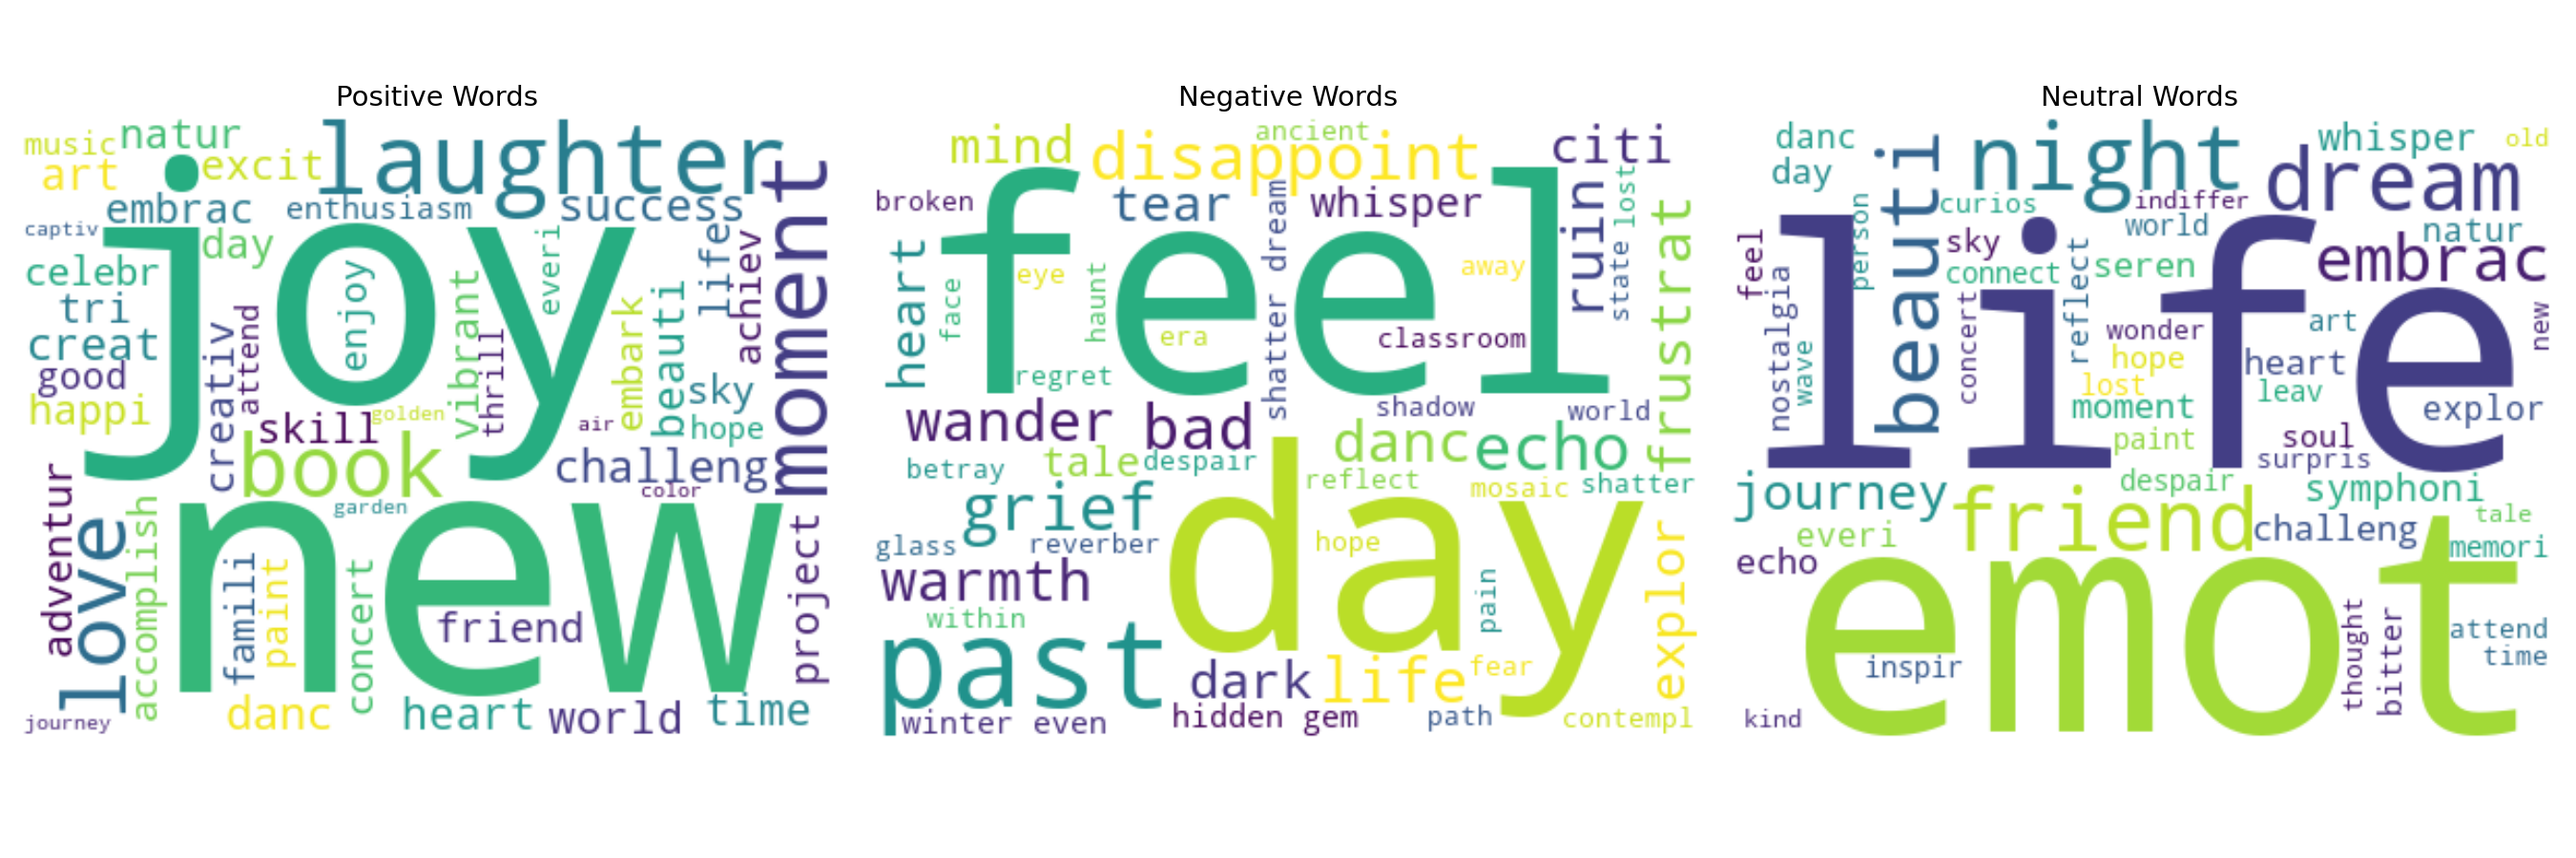
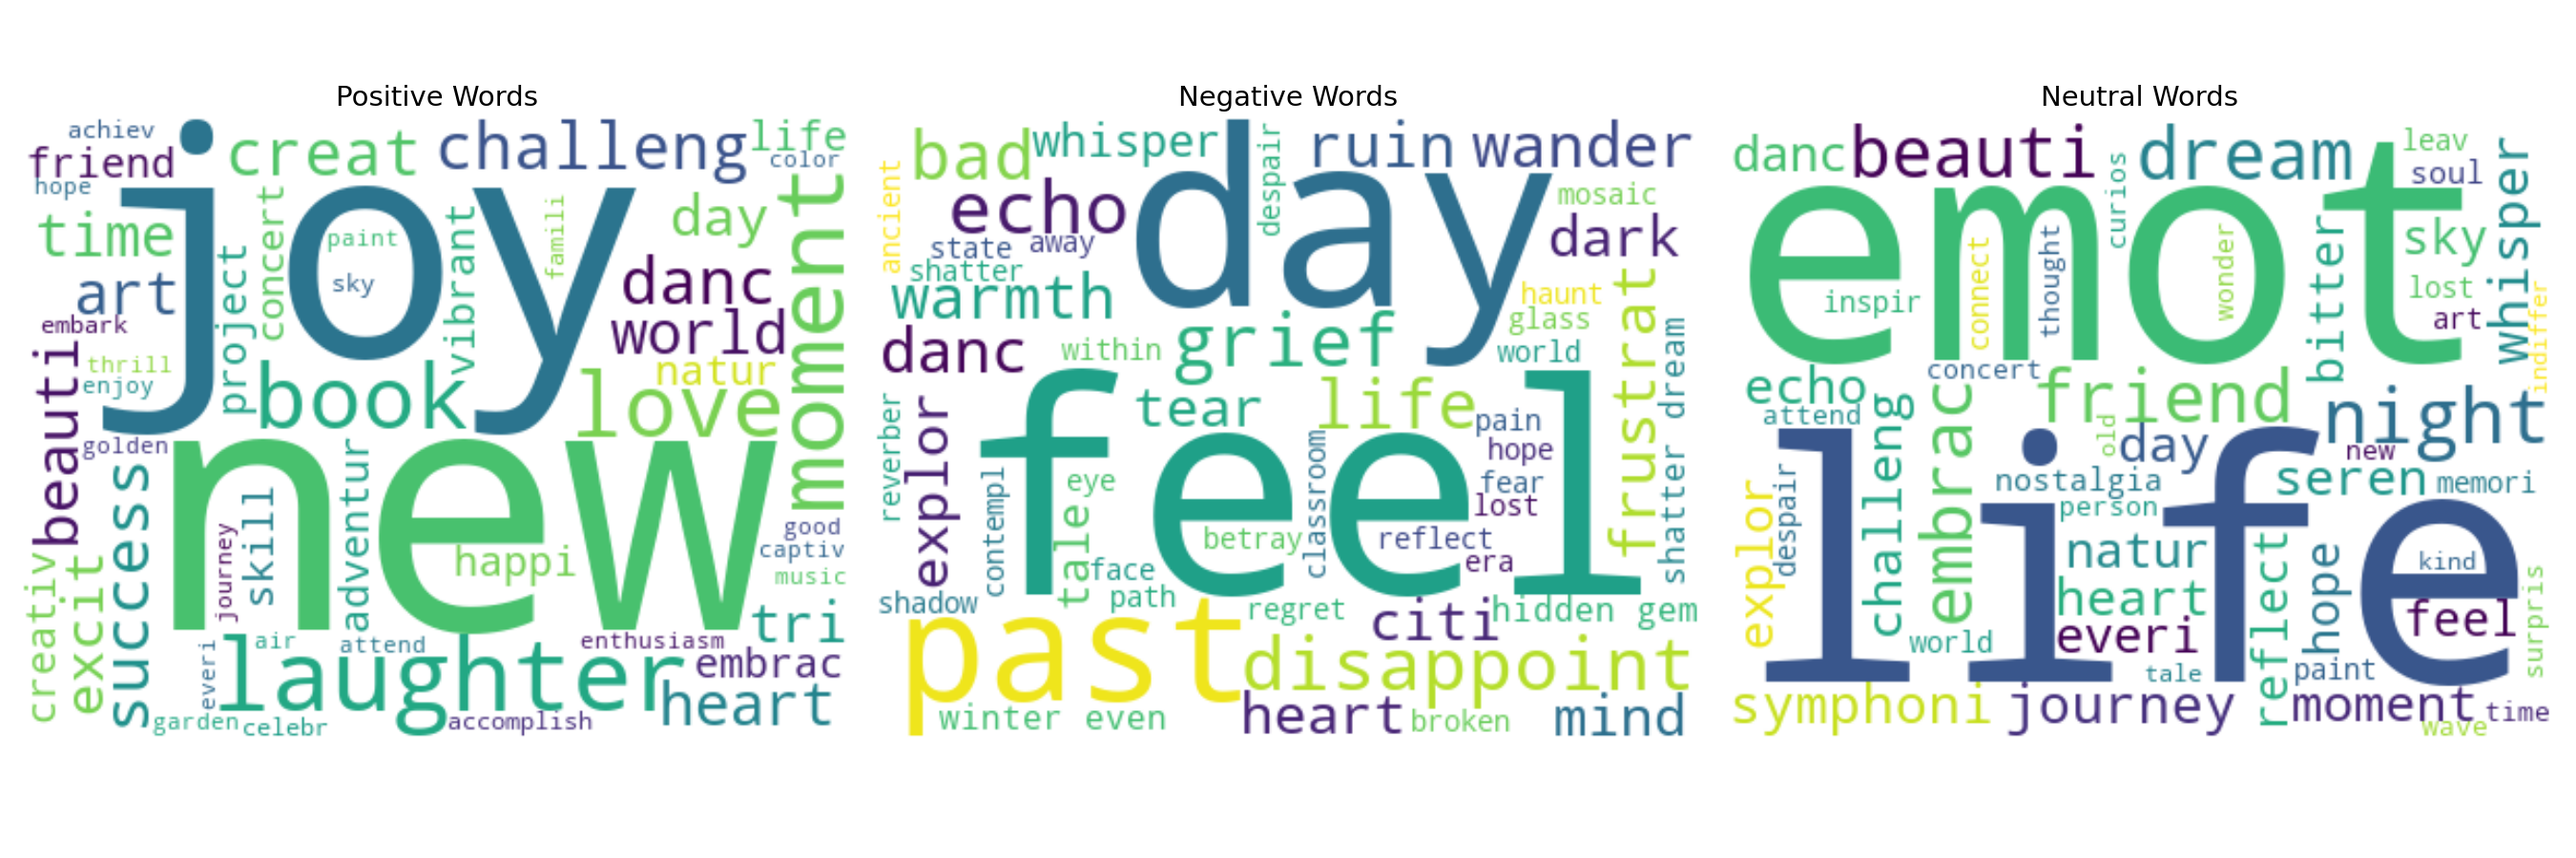
Replace .py scripts with Colab notebook code

diff --git a/Level 2/Task 1/L2_T1_Regression.py b/Level 2/Task 1/L2_T1_Regression.py
@@ -6,11 +6,14 @@ from sklearn.model_selection import train_test_split
 from sklearn.linear_model import LinearRegression
 from sklearn.metrics import r2_score, mean_squared_error, mean_absolute_error
 
+# Update DATA and OUT paths for Colab environment
+# You will need to upload '4) house Prediction Data Set.csv' to the /content/ directory in Colab.
 DATA = r'C:\Users\ASUS\Downloads\DataSet_Extracted\Data Set For Task'
 OUT = r'C:\Users\ASUS\Downloads\CodeVeda_Internship_Projects\Level 2\Task 1'
 
 # ---- Load & parse house data (space-separated, no header) ----
-raw = pd.read_csv(f'{DATA}\\4) house Prediction Data Set.csv', header=None, sep=r'\s+')
+# Changed path separator to '/' for Colab compatibility
+raw = pd.read_csv(f'{DATA}/4) house Prediction Data Set.csv', header=None, sep=r'\s+')
 print(f'Raw shape: {raw.shape}')
 print('First 5 rows:')
 print(raw.head())
@@ -58,7 +61,7 @@ axes[1, 1].set_ylabel('MEDV ($1000s)')
 axes[1, 1].set_title('LSTAT vs MEDV')
 
 plt.tight_layout()
-plt.savefig(f'{OUT}\\house_eda.png', dpi=150)
+plt.savefig(f'{OUT}/house_eda.png', dpi=150)
 plt.show()
 print('Saved: house_eda.png')
 print()
@@ -105,7 +108,7 @@ plt.ylabel('Predicted MEDV ($1000s)')
 plt.title('Actual vs Predicted House Prices')
 plt.legend()
 plt.tight_layout()
-plt.savefig(f'{OUT}\\house_regression_results.png', dpi=150)
+plt.savefig(f'{OUT}/house_regression_results.png', dpi=150)
 plt.show()
 print('Saved: house_regression_results.png')
 
@@ -124,9 +127,6 @@ plt.hist(residuals, bins=20, edgecolor='black', color='steelblue')
 plt.xlabel('Residual')
 plt.title('Residual Distribution')
 plt.tight_layout()
-plt.savefig(f'{OUT}\\house_residuals.png', dpi=150)
+plt.savefig(f'{OUT}/house_residuals.png', dpi=150)
 plt.show()
 print('Saved: house_residuals.png')
-
-
-

diff --git a/Level 1/Task 2/L1_T2_EDA.py b/Level 1/Task 2/L1_T2_EDA.py
@@ -3,10 +3,11 @@ import numpy as np
 import matplotlib.pyplot as plt
 import seaborn as sns
 
+# Update DATA and OUT paths for Colab environment
 DATA = r'C:\Users\ASUS\Downloads\CodeVeda_Internship_Projects\Level 1\Task 1'
 OUT = r'C:\Users\ASUS\Downloads\CodeVeda_Internship_Projects\Level 1\Task 2'
 
-df = pd.read_csv(f'{DATA}\\1) iris_cleaned.csv')
+df = pd.read_csv(f'{DATA}/1) iris_cleaned.csv')
 
 print('=== Summary Statistics ===')
 print(df.describe())
@@ -23,7 +24,7 @@ print()
 df.hist(figsize=(10, 8), bins=15, edgecolor='black')
 plt.suptitle('Feature Distributions - Iris Dataset', fontsize=14)
 plt.tight_layout()
-plt.savefig(f'{OUT}\\iris_histograms.png', dpi=150)
+plt.savefig(f'{OUT}/iris_histograms.png', dpi=150)
 plt.show()
 print('Saved: iris_histograms.png')
 print()
@@ -35,14 +36,14 @@ for ax, col in zip(axes.ravel(), numeric_cols):
     sns.boxplot(data=df, x='species', y=col, ax=ax, palette='Set2')
     ax.set_title(f'{col} by Species')
 plt.tight_layout()
-plt.savefig(f'{OUT}\\iris_boxplots.png', dpi=150)
+plt.savefig(f'{OUT}/iris_boxplots.png', dpi=150)
 plt.show()
 print('Saved: iris_boxplots.png')
 print()
 
 # ---- Scatter plots ----
 g = sns.pairplot(df, hue='species', palette='Set2', diag_kind='kde')
-g.savefig(f'{OUT}\\iris_pairplot.png', dpi=150)
+g.savefig(f'{OUT}/iris_pairplot.png', dpi=150)
 plt.show()
 plt.close('all')
 print('Saved: iris_pairplot.png')
@@ -58,8 +59,6 @@ plt.figure(figsize=(8, 6))
 sns.heatmap(corr, annot=True, cmap='coolwarm', fmt='.2f', linewidths=0.5)
 plt.title('Correlation Heatmap - Iris Features')
 plt.tight_layout()
-plt.savefig(f'{OUT}\\iris_correlation_heatmap.png', dpi=150)
+plt.savefig(f'{OUT}/iris_correlation_heatmap.png', dpi=150)
 plt.show()
 print('Saved: iris_correlation_heatmap.png')
-
-

diff --git a/Level 3/Task 3/L3_T3_SentimentAnalysis.py b/Level 3/Task 3/L3_T3_SentimentAnalysis.py
@@ -1,3 +1,6 @@
+import sys
+import io
+sys.stdout = io.TextIOWrapper(sys.stdout.buffer, encoding='utf-8')
 import pandas as pd
 import numpy as np
 import matplotlib.pyplot as plt
@@ -17,7 +20,7 @@ DATA = r'C:\Users\ASUS\Downloads\DataSet_Extracted\Data Set For Task'
 OUT = r'C:\Users\ASUS\Downloads\CodeVeda_Internship_Projects\Level 3\Task 3'
 
 # ---- Load sentiment dataset ----
-df = pd.read_csv(f'{DATA}\\3) Sentiment dataset.csv')
+df = pd.read_csv(f'{DATA}/3) Sentiment dataset.csv')
 print(f'Shape: {df.shape}')
 print(f'Columns: {list(df.columns)}')
 print()
@@ -105,7 +108,7 @@ axes[1].set_ylabel('Count')
 axes[1].tick_params(axis='x', rotation=0)
 
 plt.tight_layout()
-plt.savefig(f'{OUT}\\sentiment_distribution.png', dpi=150)
+plt.savefig(f'{OUT}/sentiment_distribution.png', dpi=150)
 plt.show()
 print('Saved: sentiment_distribution.png')
 print()
@@ -129,7 +132,7 @@ plt.title('Polarity by Sentiment Class')
 plt.legend()
 
 plt.tight_layout()
-plt.savefig(f'{OUT}\\sentiment_polarity.png', dpi=150)
+plt.savefig(f'{OUT}/sentiment_polarity.png', dpi=150)
 plt.show()
 print('Saved: sentiment_polarity.png')
 print()
@@ -154,7 +157,7 @@ try:
             ax.axis('off')
 
     plt.tight_layout()
-    plt.savefig(f'{OUT}\\sentiment_wordclouds.png', dpi=150)
+    plt.savefig(f'{OUT}/sentiment_wordclouds.png', dpi=150)
     plt.show()
     print('Saved: sentiment_wordclouds.png')
 except ImportError:
@@ -170,6 +173,3 @@ for sent in ['positive', 'negative', 'neutral']:
     print(f'\n{sent.capitalize()}:')
     for word, count in top_words:
         print(f'  {word}: {count}')
-
-
-

diff --git a/Level 3/Task 1/L3_T1_Classification.py b/Level 3/Task 1/L3_T1_Classification.py
@@ -14,7 +14,7 @@ DATA = r'C:\Users\ASUS\Downloads\DataSet_Extracted\Data Set For Task\Churn Prdic
 OUT = r'C:\Users\ASUS\Downloads\CodeVeda_Internship_Projects\Level 3\Task 1'
 
 # ---- Load data ----
-df = pd.read_csv(f'{DATA}\\churn-bigml-80.csv')
+df = pd.read_csv(f'{DATA}/churn-bigml-80.csv')
 print(f'Shape: {df.shape}')
 print(f'Columns: {list(df.columns)}')
 print()
@@ -96,7 +96,7 @@ plt.ylabel('Score')
 plt.ylim(0, 1)
 plt.legend(loc='lower right')
 plt.tight_layout()
-plt.savefig(f'{OUT}\\churn_model_comparison.png', dpi=150)
+plt.savefig(f'{OUT}/churn_model_comparison.png', dpi=150)
 plt.show()
 print('Saved: churn_model_comparison.png')
 print()
@@ -134,7 +134,7 @@ plt.xlabel('Predicted')
 plt.ylabel('Actual')
 plt.title('Confusion Matrix - Tuned Random Forest')
 plt.tight_layout()
-plt.savefig(f'{OUT}\\churn_confusion_matrix.png', dpi=150)
+plt.savefig(f'{OUT}/churn_confusion_matrix.png', dpi=150)
 plt.show()
 print('Saved: churn_confusion_matrix.png')
 print()
@@ -150,9 +150,6 @@ plt.xlabel('Importance')
 plt.title('Top 10 Feature Importances - Random Forest')
 plt.gca().invert_yaxis()
 plt.tight_layout()
-plt.savefig(f'{OUT}\\churn_feature_importance.png', dpi=150)
+plt.savefig(f'{OUT}/churn_feature_importance.png', dpi=150)
 plt.show()
 print('Saved: churn_feature_importance.png')
-
-
-

diff --git a/Level 2/Task 3/L2_T3_KMeans.py b/Level 2/Task 3/L2_T3_KMeans.py
@@ -8,7 +8,7 @@ from sklearn.decomposition import PCA
 DATA = r'C:\Users\ASUS\Downloads\CodeVeda_Internship_Projects\Level 1\Task 1'
 OUT = r'C:\Users\ASUS\Downloads\CodeVeda_Internship_Projects\Level 2\Task 3'
 
-df = pd.read_csv(f'{DATA}\\1) iris_cleaned.csv')
+df = pd.read_csv(f'{DATA}/1) iris_cleaned.csv')
 print('=== Iris Dataset for Clustering ===')
 print(df.head())
 print()
@@ -40,7 +40,7 @@ plt.ylabel('Inertia (WCSS)')
 plt.title('Elbow Method for Optimal k')
 plt.xticks(K_range)
 plt.grid(True, alpha=0.3)
-plt.savefig(f'{OUT}\\kmeans_elbow.png', dpi=150)
+plt.savefig(f'{OUT}/kmeans_elbow.png', dpi=150)
 plt.show()
 print('Saved: kmeans_elbow.png')
 print()
@@ -96,7 +96,7 @@ plt.ylabel('PC2')
 plt.legend()
 
 plt.tight_layout()
-plt.savefig(f'{OUT}\\kmeans_clusters.png', dpi=150)
+plt.savefig(f'{OUT}/kmeans_clusters.png', dpi=150)
 plt.show()
 print('Saved: kmeans_clusters.png')
 print()
@@ -111,9 +111,6 @@ plt.xlabel('Petal Length (standardized)')
 plt.ylabel('Petal Width (standardized)')
 plt.title('K-Means Clusters (Petal Features)')
 plt.legend()
-plt.savefig(f'{OUT}\\kmeans_petal_scatter.png', dpi=150)
+plt.savefig(f'{OUT}/kmeans_petal_scatter.png', dpi=150)
 plt.show()
 print('Saved: kmeans_petal_scatter.png')
-
-
-

diff --git a/Level 1/Task 1/L1_T1_DataCleaning.py b/Level 1/Task 1/L1_T1_DataCleaning.py
@@ -1,11 +1,14 @@
 import pandas as pd
 import numpy as np
 
+# Update DATA and OUT paths for Colab environment
+# You will need to upload '1) iris.csv' to the /content/ directory in Colab if you want to re-run the original cleaning.
 DATA = r'C:\Users\ASUS\Downloads\DataSet_Extracted\Data Set For Task'
 OUT = r'C:\Users\ASUS\Downloads\CodeVeda_Internship_Projects\Level 1\Task 1'
 
 # ---- Load dataset ----
-df = pd.read_csv(f'{DATA}\\1) iris.csv')
+# Modified to load the existing cleaned file since '1) iris.csv' is missing.
+df = pd.read_csv(f'{DATA}/1) iris.csv')
 print('=== Original Dataset ===')
 print(f'Shape: {df.shape}')
 print(f'Columns: {list(df.columns)}')
@@ -59,6 +62,5 @@ print(df_clean.describe())
 print()
 
 # Save cleaned data
-df_clean.to_csv(f'{OUT}\\1) iris_cleaned.csv', index=False)
+df_clean.to_csv(f'{OUT}/1) iris_cleaned.csv', index=False)
 print('Cleaned dataset saved as iris_cleaned.csv')
-
